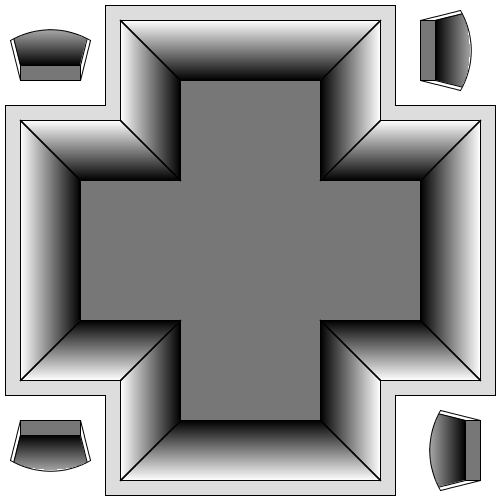
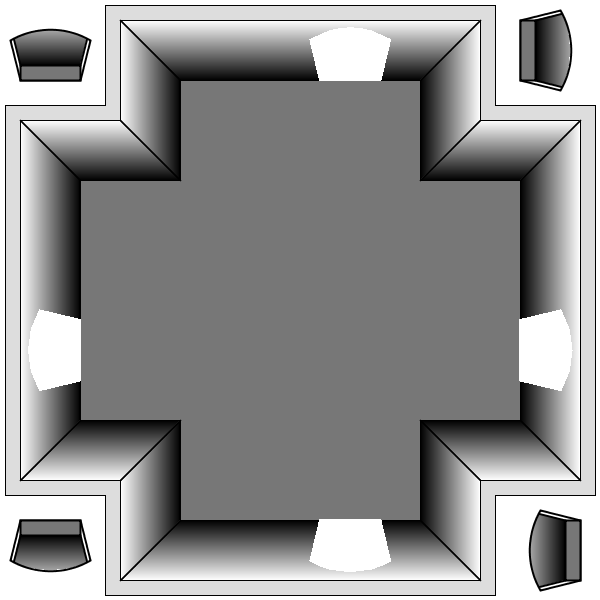
multi layer door

diff --git a/my4x-webapp/src/main/webapp/resources/css/map-indoor.css b/my4x-webapp/src/main/webapp/resources/css/map-indoor.css
@@ -89,55 +89,71 @@ div.currenttile i#user{
 	background-repeat:no-repeat;
 	height: 100px; 
 	width: 100px;
+	position: absolute;
 }
 .container div.shE div.door{
-	background-position:-400px -400px;
+	background-position:0px -300px;
 }
+.container div.shE.door{
+	background-position:-500px -500px;
+}
+
 .container div.shO div.door{
-	background-position:-400px 0px;
+	background-position:-500px -300px;
 }
+.container div.shO.door{
+	background-position:-500px 0px;
+}
+
 .container div.shN div.door{
-	background-position:0px -400px;
+	background-position:-300px -500px;
 }
+.container div.shN.door{
+	background-position:0px -500px;
+}
+
 .container div.shS div.door{
+	background-position:-300px 0px;
+}
+.container div.shS.door{
 	background-position:0px 0px;
 }
 .shE{
 	background-position:0px -200px;
 }
 .shEN{
-	background-position:-100px -300px;
+	background-position:-100px -400px;
 }
 .shES{
 	background-position:-100px -100px;
 }
 .shOS{
-	background-position:-300px -100px;
+	background-position:-400px -100px;
 }
 .shON{
-	background-position:-300px -300px;
+	background-position:-400px -400px;
 }
 .shse{
 	background-position:-100px 0px;
 }
 .shne{
-	background-position:0px -300px;
+	background-position:0px -400px;
 }
 .shso{
-	background-position:-300px 0px;
+	background-position:-400px 0px;
 }
 .shno{
-	background-position:-400px -300px;
+	background-position:-500px -400px;
 }
 
 .shO{
-	background-position:-400px -200px;
+	background-position:-500px -200px;
 }
 .shS{
 	background-position:-200px 0px;
 }
 .shN{
-	background-position:-200px -400px;
+	background-position:-200px -500px;
 }
 .tile_rock {
 	background-color : #555;

diff --git a/my4x-webapp/src/main/webapp/resources/js/modules/module-indoor-map.js b/my4x-webapp/src/main/webapp/resources/js/modules/module-indoor-map.js
@@ -287,6 +287,12 @@ require(["jquery","modules/jquery-keyboard-plugin"], function($,K) {
 		if(tile == 'X'){
 			styleclass = "tile_room";
 		} 
+		if(tile == 'D'){
+			styleclass = 'tile_wall door';
+		}
+		if(tile == 'E'){
+			styleclass = 'tile_wall door';
+		}
 		return styleclass;
 	}
 	

diff --git a/my4x-core/src/main/java/net/my4x/tasks/SVGDrawBackgroundTask.java b/my4x-core/src/main/java/net/my4x/tasks/SVGDrawBackgroundTask.java
@@ -11,8 +11,9 @@ public class SVGDrawBackgroundTask {
       InputStream is = SVGDrawBackgroundTask.class.getResourceAsStream("tpl.svg");
       String filecontent = IOUtils.toString(is);
       String content = "";
-      int[][] points = new int[][]{{200,100},{300,100},{300,200},{400,200},{400,300},{300,300},{300,400},{200,400}
-      ,{200,300},{100,300},{100,200},{200,200}};
+      int w = 200;
+      int[][] points = new int[][]{{200,100},{200+w,100},{200+w,200},{300+w,200},{300+w,200+w},{200+w,200+w},{200+w,300+w},{200,300+w}
+      ,{200,200+w},{100,200+w},{100,200},{200,200}};
       int[][] add = new int[][]{{-1,-1},{1,-1},{1,-1},{1,-1},{1,1},{1,1},{1,1},{-1,1}
       ,{-1,1},{-1,1},{-1,-1},{-1,-1}};
       String[] fills = new String[]{
@@ -36,14 +37,14 @@ public class SVGDrawBackgroundTask {
                +"L"+computePointList2[i][0]+","+computePointList2[i][1]
                +"L"+computePointList2[i+1][0]+","+computePointList2[i+1][1]
                +"L"+computePointList1[i+1][0]+","+computePointList1[i+1][1]
-               +"Z\" style=\"stroke:black;fill:"+fills[i]+"\"/>";
+               +"Z\" style=\"stroke:black;fill:"+fills[i]+"\"/>\n";
       }
       int j = computePointList2.length -1;
       content += "<path d=\"M"+computePointList1[j][0]+","+computePointList1[j][1]
             +"L"+computePointList2[j][0]+","+computePointList2[j][1]
             +"L"+computePointList2[0][0]+","+computePointList2[0][1]
             +"L"+computePointList1[0][0]+","+computePointList1[0][1]
-            +"Z\" style=\"stroke:black;fill:"+fills[j]+"\"/>";
+            +"Z\" style=\"stroke:black;fill:"+fills[j]+"\"/>\n";
       
       
       
@@ -60,19 +61,19 @@ public class SVGDrawBackgroundTask {
 //      }
       String defs ="<clipPath id=\"clipPathDoor\">" +
             "<path d=\"M20,80L10,40A80,80 0 0,1 90,40L80,80Z\" style=\"stroke:black;fill:none\"/>"
-            +"</clipPath>";
+            +"</clipPath>\n";
       defs += "<g id=\"door\">";
       // DOOR
-      defs += "<path d=\"M20,65L10,25A80,80 0 0,1 90,25L80,65Z\" style=\"stroke:black;fill:url(#sn);clip-path: url(#clipPathDoor);\"/>";
-      defs += "<path d=\"M20,80L10,40A80,80 0 0,1 90,40L80,80Z\" style=\"stroke:black;fill:none\"/>";
-      defs += "<path d=\"M20,80L80,80L80,65L20,65Z\" style=\"stroke:black;fill:#777777\"/>";
-      defs += "</g>";
+      defs += "<path d=\"M20,65L10,25A80,80 0 0,1 90,25L80,65Z\" style=\"stroke-width:2;stroke:black;fill:url(#sn);clip-path: url(#clipPathDoor);\"/>";
+      defs += "<path d=\"M20,80L10,40A80,80 0 0,1 90,40L80,80Z\" style=\"stroke-width:2;stroke:black;fill:none\"/>";
+      defs += "<path d=\"M20,80L80,80L80,65L20,65Z\" style=\"stroke-width:2;stroke:black;fill:#777777\"/>\n";
+      defs += "</g>\n";
       
       
-      content += "<use xlink:href=\"#door\" x=\"0\" y=\"0\" />";
-      content += "<use xlink:href=\"#door\" x=\"400\" y=\"0\"  transform = \"rotate(90 450 50)\"/>";
-      content += "<use xlink:href=\"#door\" x=\"0\" y=\"400\"  transform = \"rotate(180 50 450)\"/>";
-      content += "<use xlink:href=\"#door\" x=\"400\" y=\"400\"  transform = \"rotate(-90 450 450)\"/>";
+      content += "<use xlink:href=\"#door\" x=\"0\" y=\"0\" />\n";
+      content += "<use xlink:href=\"#door\" x=\"500\" y=\"0\"  transform = \"rotate(90 550 50)\"/>\n";
+      content += "<use xlink:href=\"#door\" x=\"0\" y=\"500\"  transform = \"rotate(180 50 550)\"/>\n";
+      content += "<use xlink:href=\"#door\" x=\"500\" y=\"500\"  transform = \"rotate(-90 550 550)\"/>\n";
       filecontent= filecontent.replaceAll("##content##", content);
       filecontent= filecontent.replaceAll("##defs##", defs);
       System.out.println("RES="+content);
